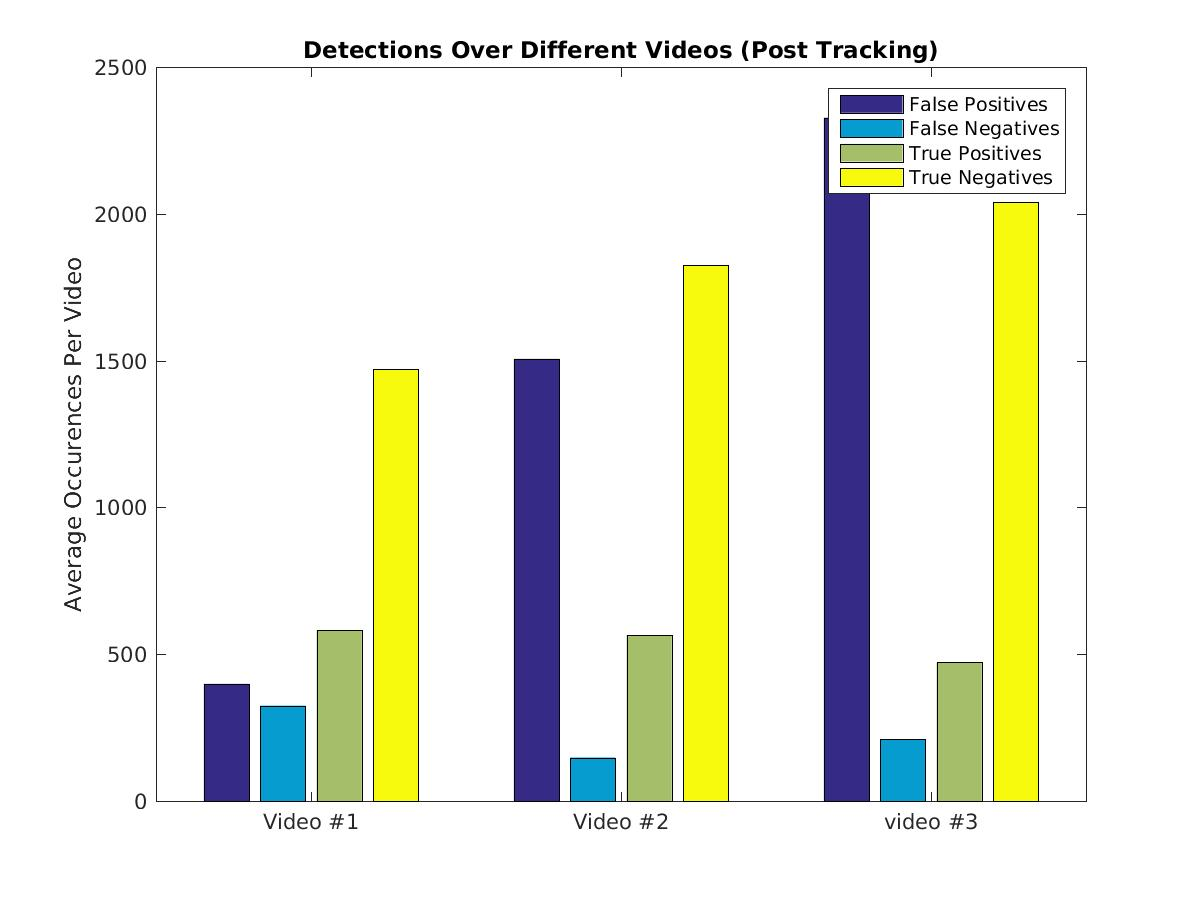
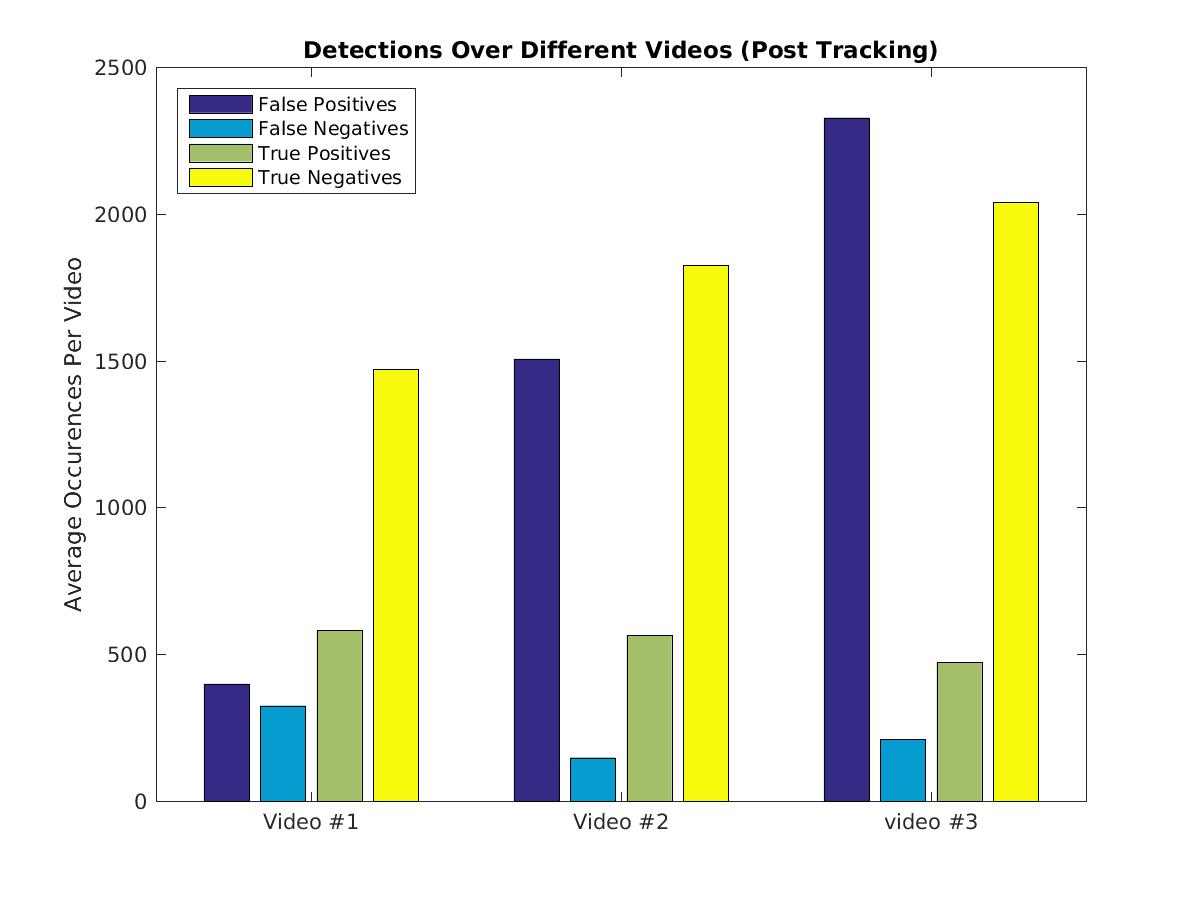
Add new figures with proper legends

Changed region(s): [[0.6783, 0.0933, 0.8942, 0.2178], [0.1542, 0.0933, 0.3392, 0.2178]]

diff --git a/Testing/run_BarGrapher.m b/Testing/run_BarGrapher.m
@@ -76,7 +76,7 @@ tests(end+1) = struct('attributes', {{{'False Positives (per frame)','False Nega
     'plotTitle', 'Detections per Frame Over Different Videos', ...
     'yAxisLabel', 'Average Occurences Per Frame', ...
     'saveLocation', '../figures/DetectionVSVideoPerFrame', ...
-    'collapse', 1, 'byAttr', 0, 'stage', 'preTrack', 'legendLoc', 'northeast');
+    'collapse', 1, 'byAttr', 0, 'stage', 'preTrack', 'legendLoc', 'west');
 
 % PerFrame Detection metrics (false positives etc) after initial detection over different videos
 tests(end+1) = struct('attributes', {{{'False Positives (per frame)','False Negatives (per frame)','True Positives (per frame)', 'True Negatives (per frame)'}}}, ...
@@ -142,7 +142,7 @@ tests(end+1) = struct('attributes', {{{'False Positives','False Negatives','True
     'plotTitle', 'Detections per Video Over Various Thresholds (Post Tracking)', ...
     'yAxisLabel', 'Average Occurences Per Video', ...
     'saveLocation', '../figures/DetectionVSThreshPostTrack', ...
-    'collapse', 1, 'byAttr', 0, 'stage', 'postTrack', 'legendLoc', 'southeast');
+    'collapse', 1, 'byAttr', 0, 'stage', 'postTrack', 'legendLoc', 'northeast');
 
 % Detection metrics (false positives etc) after initial detection over different thresholds
 tests(end+1) = struct('attributes', {{{'False Positives','False Negatives','True Positives', 'True Negatives'}}}, ...
@@ -216,7 +216,7 @@ tests(end+1) = struct('attributes', {{{'First truth detection (ft)','First detec
     'plotTitle', 'First Detection Distance Over Different Thresholds (Post Tracking)', ...
     'yAxisLabel', 'Distance (ft)', ...
     'saveLocation', '../figures/FirstDetectionDistanceVSThreshPostTrack', ...
-    'collapse', 1, 'byAttr', 0, 'stage', 'postTrack', 'legendLoc', 'northeast');
+    'collapse', 1, 'byAttr', 0, 'stage', 'postTrack', 'legendLoc', 'southeast');
 
 
 
